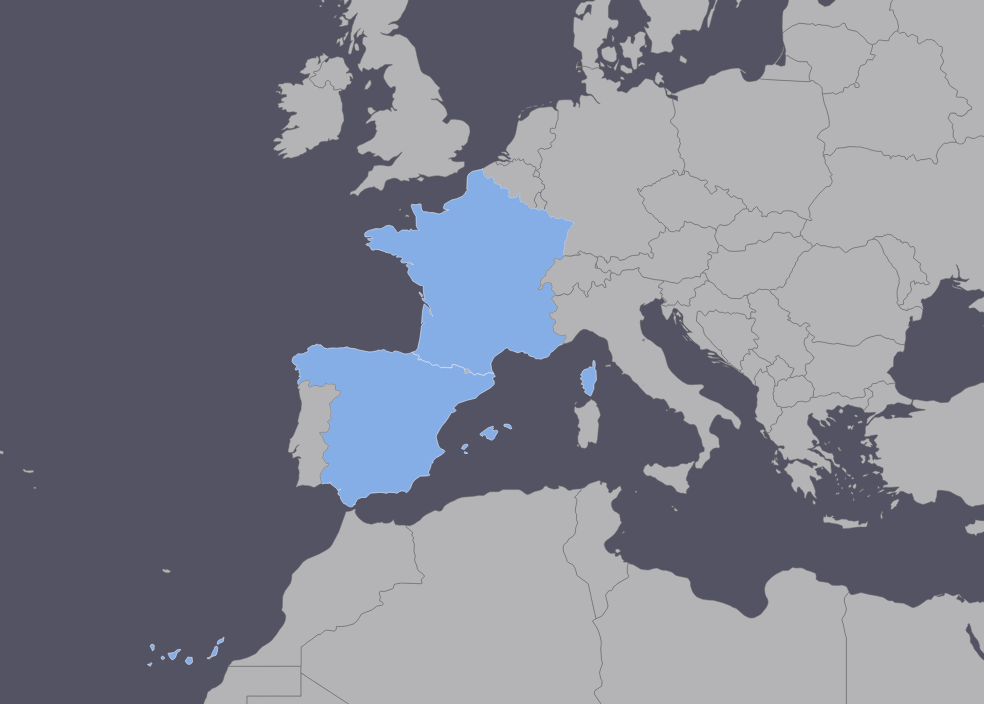
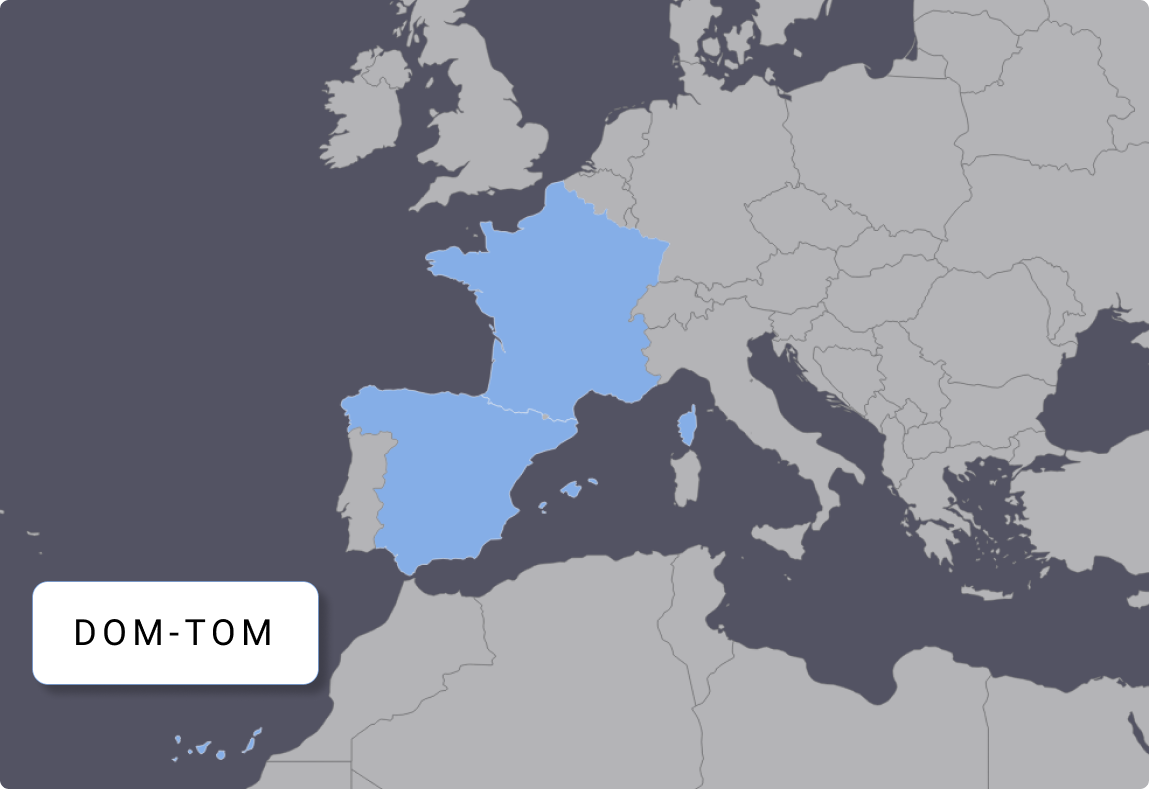
oklm

diff --git a/app/assets/stylesheets/pages/_home.scss b/app/assets/stylesheets/pages/_home.scss
@@ -157,16 +157,6 @@
   height: 350px;
   width: 500px;
   background-size: cover;
-  .dom-tom {
-    display: block;
-    padding: 10px;
-    background: white;
-    max-width: fit-content;
-    border-radius: 2px;
-    position: absolute;
-    bottom: 20px;
-    left: 40px;
-  }
 }
 
 .home-service-box {

diff --git a/app/assets/stylesheets/components/_navbar.scss b/app/assets/stylesheets/components/_navbar.scss
@@ -70,7 +70,7 @@ font-style: medium;
 .nav-item-active {
   text-decoration: none;
   color: $black;
-  border-bottom: 2px solid #ccc;
+  border-bottom: 2px solid $red;
   padding-bottom: 4px;
   display: block;
 }
